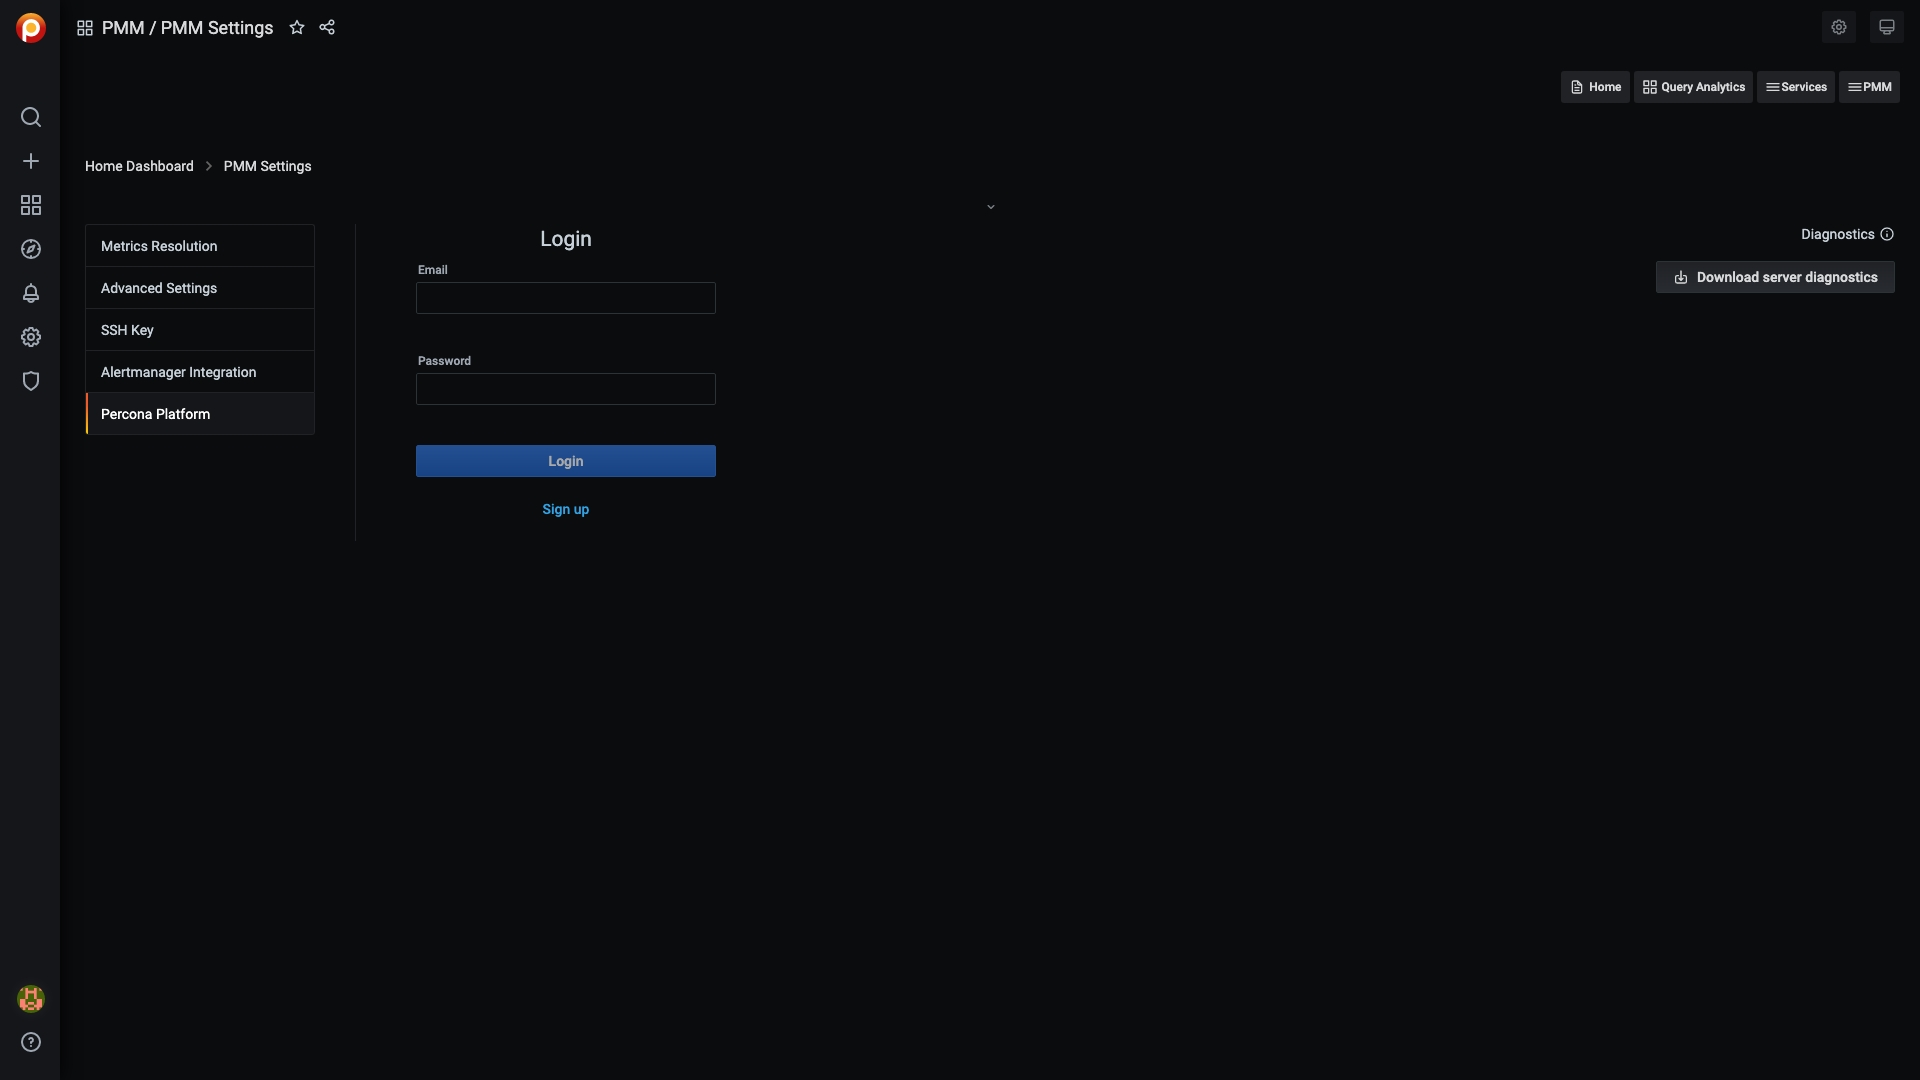
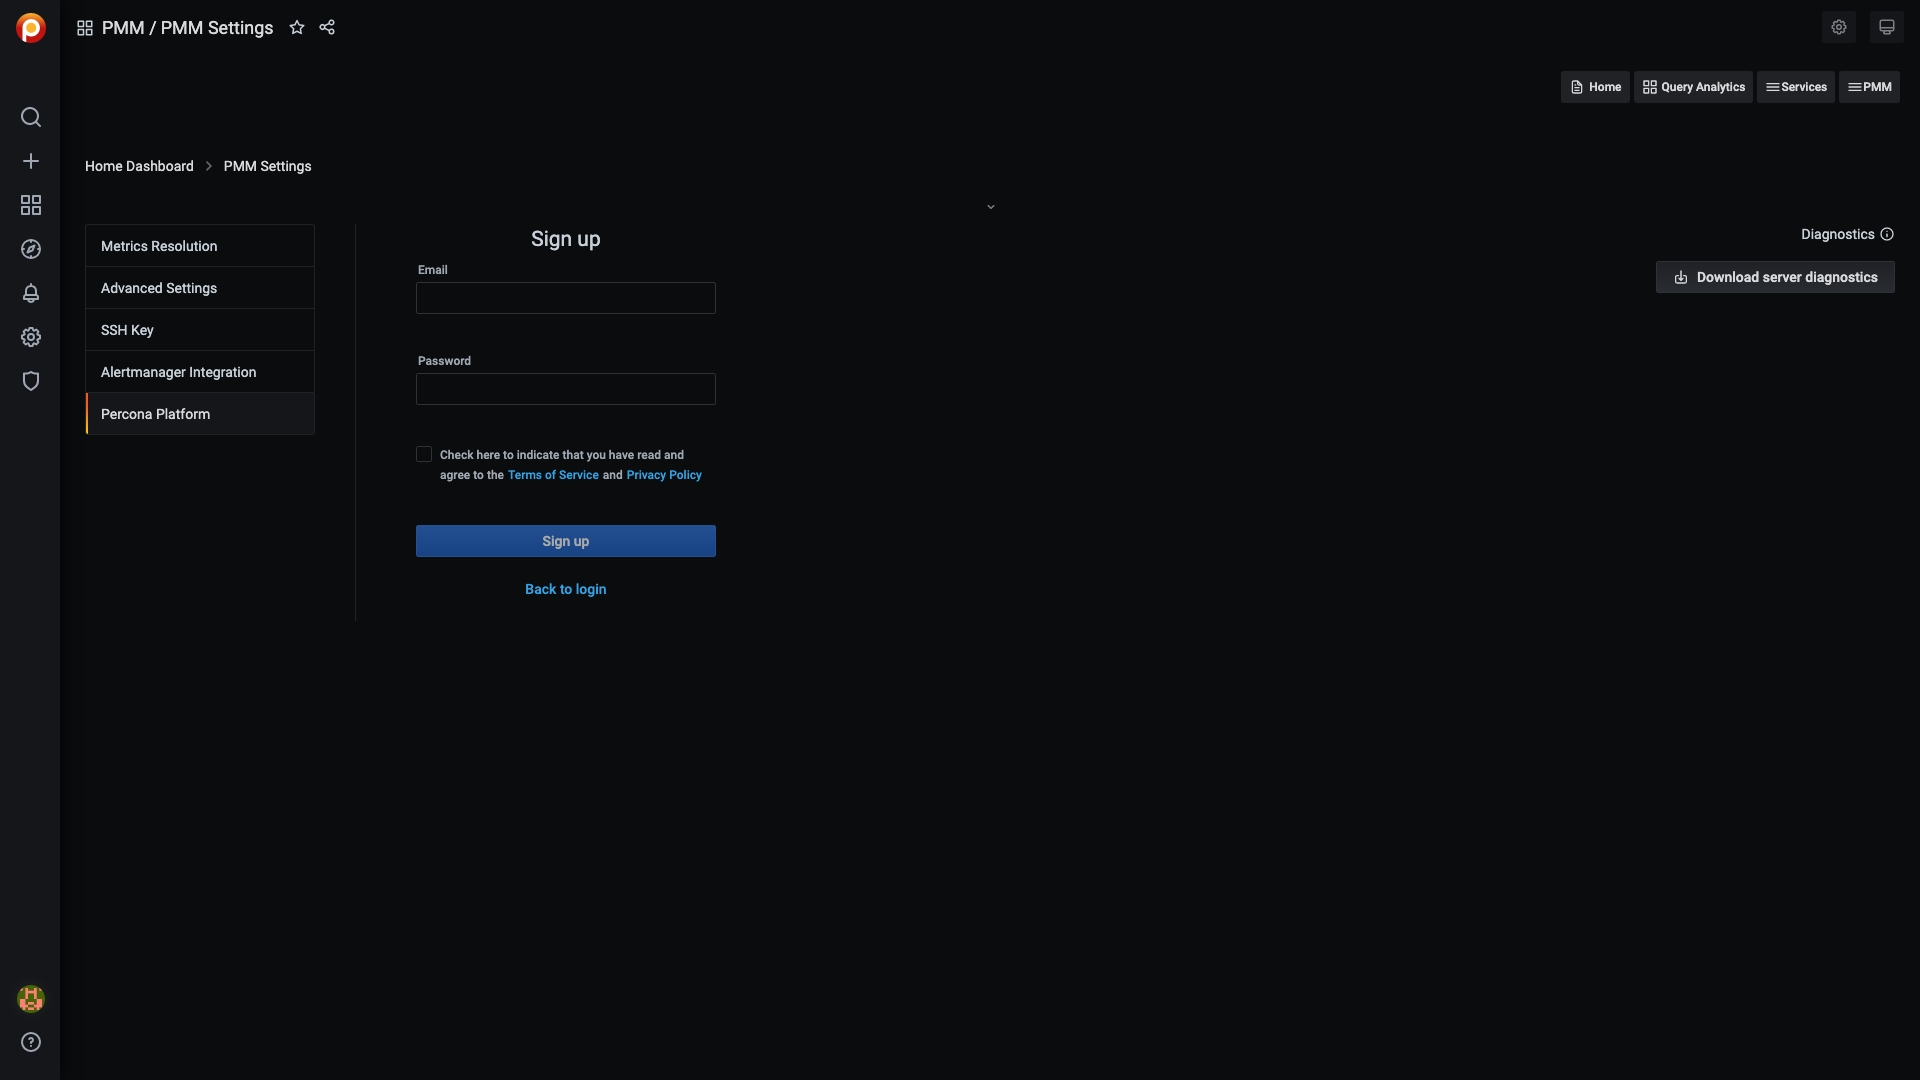
PMM-6375 Additional images

Changed region(s): [[0.2188, 0.3972, 0.375, 0.55], [0.2812, 0.2139, 0.3125, 0.2444], [0.0625, 0.3667, 0.0938, 0.3972]]

diff --git a/source/manage/server-admin-gui.rst b/source/manage/server-admin-gui.rst
@@ -148,19 +148,21 @@ Percona Platform
 
 This panel is where you create, and log into and out of your Percona Platform account.
 
-.. image:: /_images/PMM_Settings_Sign_Up.jpg
-
 **Logging in**
+
+.. image:: /_images/PMM_Settings_Percona_Platform.jpg
 
 If you have a *Percona Platform* account, enter your credentials and click *Login*.
 
 **Logging out**
 
-Click *Sign out* to log out of your Percona Platform account.
-
 .. image:: /_images/PMM_Settings_Sign_Out.jpg
 
-**Creating an account**
+Click *Sign out* to log out of your Percona Platform account.
+
+**Create an account**
+
+.. image:: /_images/PMM_Settings_Sign_Up.jpg
 
 To create a *Percona Platform* account:
 
@@ -171,6 +173,7 @@ To create a *Percona Platform* account:
 - Click *Sign up*
 
 A brief message will confirm the creation of your new account and you may now log in with these credentials.
+
 
 .. note::
 

diff --git a/docs/manage/server-admin-gui.md b/docs/manage/server-admin-gui.md
@@ -131,19 +131,21 @@ Fill both fields and click the *Apply Alertmanager settings* button to proceed.
 
 This panel is where you create, and log into and out of your Percona Platform account.
 
-![image](../_images/PMM_Settings_Sign_Up.jpg)
-
 **Logging in**
+
+![image](../_images/PMM_Settings_Percona_Platform.jpg)
 
 If you have a *Percona Platform* account, enter your credentials and click *Login*.
 
 **Logging out**
 
-Click *Sign out* to log out of your Percona Platform account.
-
 ![image](../_images/PMM_Settings_Sign_Out.jpg)
 
-**Creating an account**
+Click *Sign out* to log out of your Percona Platform account.
+
+**Create an account**
+
+![image](../_images/PMM_Settings_Sign_Up.jpg)
 
 To create a *Percona Platform* account:
 
